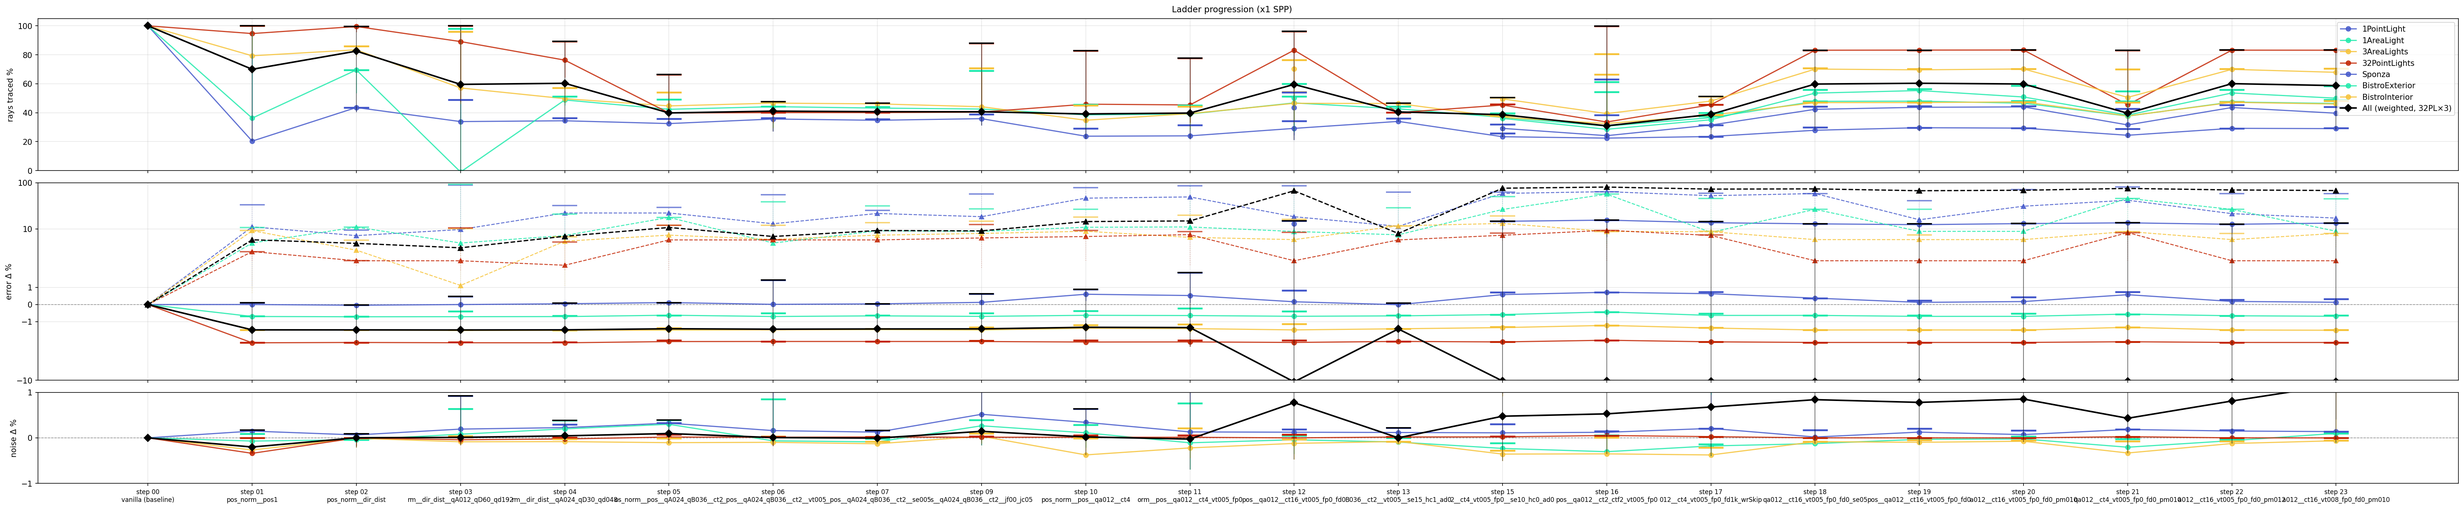
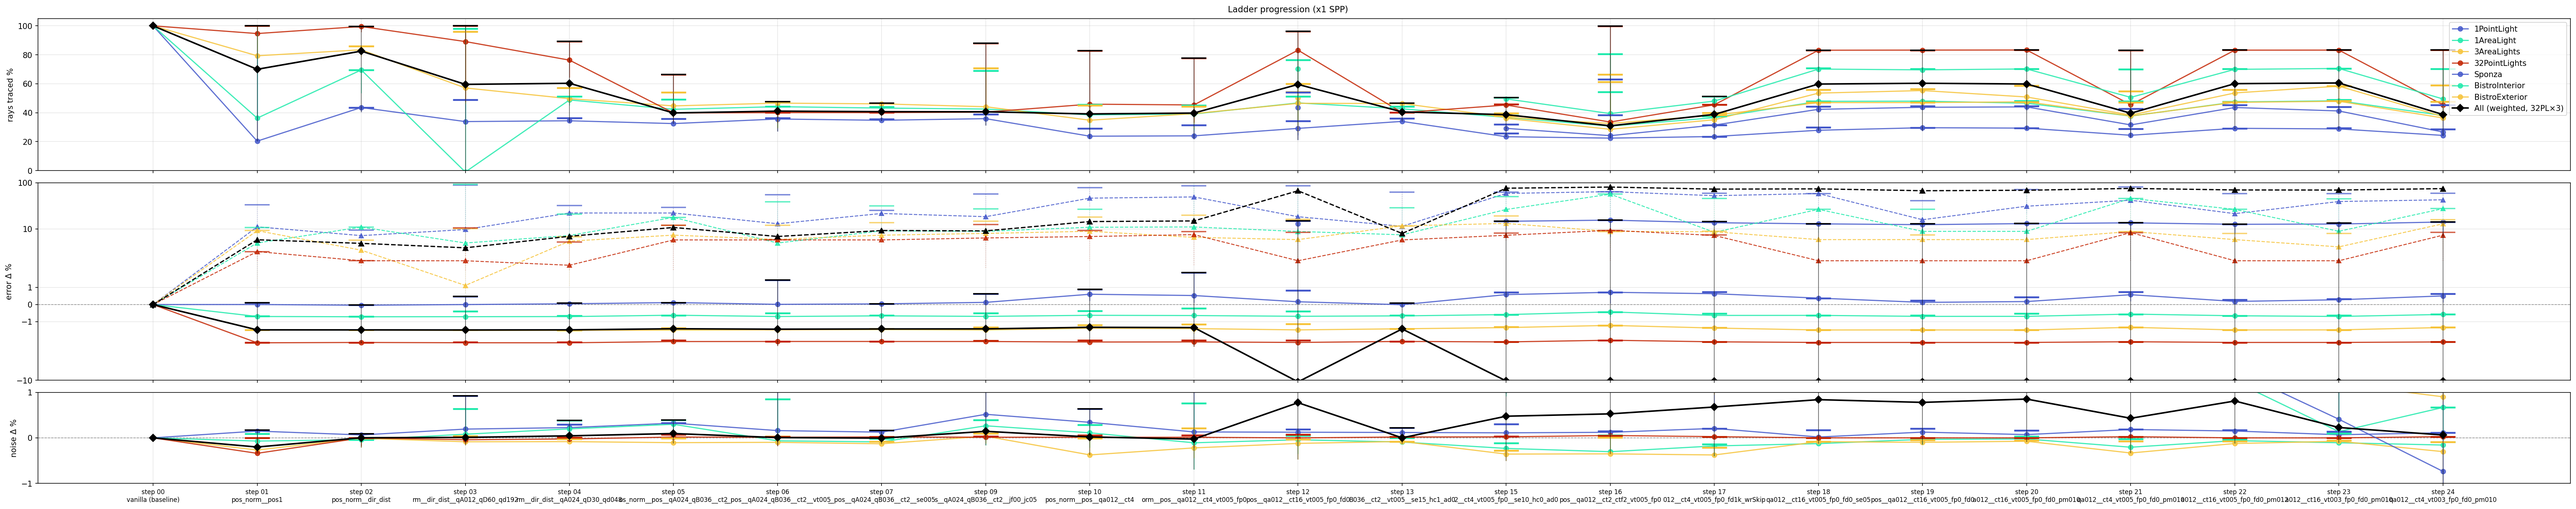
Step 24: ct x vt003 orthogonal, no universal carry unlock
Tested whether vt003 (step-23 Sponza defense) rescues ct=4's Sponza
regression (step 21 showed ct4+pm010 spikes Sponza x4 err to +7%).
If yes: ct4+vt003+pm010 = universal win (massive rays savings AND
Sponza quality).

Answer: no. Sponza err monotonic in ct under vt003:
- x4 w1: ct4 +3.85 > ct8 +3.03 > ct16 +1.42
- x4 w2: ct4 +4.54 > ct8 +4.40 > ct16 +0.89
- x16 w1: ct4 +13.98 > ct8 +11.79 > ct16 +8.26

ct and vt are orthogonal bias defenses — ct waits for enough samples
to stabilize cell means; vt distrusts ambiguous μ. They combine
additively, not substitutively. Rays savings on 32PL (ct4 halves to
45 vs 83 rays) stay gated behind Sponza's quality need.

No carry change. Step-23 qa012__ct16_vt003_fp0_fd0_pm010 remains the
universal carry. ct4+vt003 flagged as the Bistro-only / variance-
dominated specialized config.

diff --git a/scripts/VisCache_Ladder24.py b/scripts/VisCache_Ladder24.py
@@ -1,0 +1,105 @@
+"""
+VisCache_Ladder24.py — Step 24: ct × vt003 × pm010 re-test.
+
+Step 21 showed ct4+pm010 unlocks HUGE rays savings (32PL x4 halved,
+Bistro -20pp) but costs Sponza x4 quality (err +2.34 → +6.99, 3×
+worse). Step 23 showed vt003+pm010 ESSENTIALLY FIXES Sponza x4
+(err +2.85 → +0.17 at ct=16). Question: does vt003 rescue Sponza
+at ct=4 too?
+
+If yes: ct4+vt003+pm010 delivers Sponza parity AND Bistro rays savings
+AND 32PL rays savings — a universal win.
+
+Three variants: ct4_vt003_pm010, ct8_vt003_pm010, ct16_vt003_pm010.
+3 × 6 × 7 = 126 runs.
+
+Usage:
+    runtime/pythondist/python.exe scripts/run_ladder.py -s 24
+"""
+import os, sys
+sys.path.insert(0, os.path.dirname(os.path.abspath(__file__)))
+from VisCache_LadderCommon import run_variants, run_baseline, get_scenes, \
+    finalize_step, make_norm_variants, read_carried_winner, parse_variant_tags, \
+    write_picks_meta, _DEFAULT_PICKER_RULE, ALL_SCENES, \
+    PRESET_MINIMAL, RR_ADAPTIVE, LEVELS_MULTI, QUANT_SWEEP, SUBFRAME_2x2
+
+STEP = "24"
+res = int(os.environ.get("RES", "512"))
+
+INHERITED_NAME = read_carried_winner("23")
+if INHERITED_NAME is None:
+    raise RuntimeError("[24] step 23 picks.json missing — run step 23 first.")
+
+_qa_tag = None
+for tok in INHERITED_NAME.split("__"):
+    if tok.startswith("qa") and tok[2:].isdigit():
+        _qa_tag = tok
+        break
+if _qa_tag is None:
+    raise RuntimeError(f"[24] cannot parse qa tag from {INHERITED_NAME}")
+QUANT_WINNER = QUANT_SWEEP[_qa_tag]
+WINNER_NAME = f"pos_norm__pos__{_qa_tag}"
+
+NO_JITTER = {"jitterFilter": 0.0, "jitterCell": 0.0}
+
+BASE_24 = [v for v in make_norm_variants(quant=QUANT_WINNER,
+                                           base=PRESET_MINIMAL,
+                                           quant_tag=_qa_tag)
+           if v[0] == WINNER_NAME]
+
+CT_SWEEP = {"ct4": 4, "ct8": 8, "ct16": 16}
+
+VARIANTS_24 = []
+for (name, base_overrides) in BASE_24:
+    for ct_tag, ct_val in CT_SWEEP.items():
+        tag = f"{ct_tag}_vt003_fp0_fd0_pm010"
+        VARIANTS_24.append((f"{name}__{tag}", {
+            **base_overrides,
+            **NO_JITTER,
+            "bootThreshold":                 ct_val,
+            "matureThreshold":               128,
+            "varThreshold":                  0.03,
+            "bootThresholdFactorFootprintPx": 0.0,
+            "forceDescendFootprintPx":       0,
+            "stderrThreshold":               0.0,
+            "enableHierarchicalConsistency": False,
+            "accelDecayDisagreeThresh":      0.0,
+            "pMin":                          0.10,
+        }))
+
+STEP_OVERRIDES = {**RR_ADAPTIVE, **LEVELS_MULTI, **SUBFRAME_2x2,
+                  "tableCapacity": 1 << 25}
+
+for scene_file in get_scenes(default=list(ALL_SCENES)):
+    run_baseline(
+        step_name="00",
+        frame_configs=[(0, 0, 1)],
+        scene_file=scene_file,
+        resX=res, resY=res,
+        extra_spp=[4, 16],
+        mogwai_globals=globals(),
+    )
+
+    run_variants(
+        step_name=STEP,
+        frame_configs=[(1, 0, 1, 1),  (1, 0, 1, 4),  (1, 0, 1, 16),
+                       (2, 0, 1, 1),  (2, 0, 1, 4),  (2, 0, 1, 16)],
+        scene_file=scene_file,
+        variants=VARIANTS_24,
+        resX=res, resY=res,
+        mogwai_globals=globals(),
+        step_overrides=STEP_OVERRIDES,
+    )
+
+finalize_step(STEP, inherited_winners=[INHERITED_NAME],
+              ref_step="23", ref_variant=INHERITED_NAME,
+              ref_label="step-23 carry (ct16)")
+write_picks_meta(STEP, inherited_from="23", inherited=[INHERITED_NAME],
+                  carried={}, rule=_DEFAULT_PICKER_RULE,
+                  notes="ct × vt003 × pm010 cross-sweep. Step 21 showed ct4 "
+                        "saves 20-37pp rays but Sponza x4 err regressed +2.3 "
+                        "→ +7.0. Step 23 showed vt003 gives Sponza x4 "
+                        "parity (+0.17%). Does vt003 rescue Sponza at ct=4 "
+                        "so we can unlock the rays savings? Carry set "
+                        "post-inspection if ct4+vt003 delivers both.")
+_HEADLESS_SCRIPT_DONE = True

diff --git a/docs/devlog/DEVLOG.md b/docs/devlog/DEVLOG.md
@@ -548,6 +548,35 @@ v2 eliminated v1's catastrophic 1AL regression (blob 117 → 33 at fd=4096). `fd
 
 ---
 
+## Step 24 — ct × vt003 × pm010 cross-sweep — ct+vt are orthogonal bias defenses
+
+**What it looks at.** Step 21 found ct=4+pm010 unlocks massive rays savings (32PL halved, Bistro -20pp) but regresses Sponza x4 err (+2.3 → +7.0). Step 23 found vt003+pm010 achieves Sponza x4 err parity with vanilla (+0.17%). Direct question: does vt003 rescue Sponza at ct=4, giving us the universal win?
+
+Three variants: `ct4_vt003_pm010`, `ct8_vt003_pm010`, `ct16_vt003_pm010`. 3 × 6 × 7 = 126 runs.
+
+**Result — vt003 does NOT rescue Sponza at ct=4.**
+
+Sponza under vt003:
+
+| regime | ct4 err | ct8 err | ct16 err |
+|---|---:|---:|---:|
+| x4 w1 | +3.85 | +3.03 | **+1.42** |
+| x4 w2 | +4.54 | +4.40 | **+0.89** |
+| x16 w1 | +13.98 | +11.79 | **+8.26** |
+| x16 w2 | +12.95 | +11.51 | **+8.49** |
+
+Sponza err is **monotone in ct** — tighter vt didn't absolve ct. The scene-regime split (step 21) is robust: bias-dominated scenes need high ct AND tight vt. They fight bias through different mechanisms (ct = "wait for enough samples to stabilize cell mean", vt = "distrust cells with ambiguous μ") and combine additively, not substitutively.
+
+Meanwhile 32PL rays scale exactly as expected: ct4 halves rays (x1 83→45, x4 40→17) with ~0.15% err cost. The rays prize on variance-dominated scenes stays gated behind Sponza's quality need.
+
+**Why we narrow.** No carry change. Step-23 `qa012__ct16_vt003_fp0_fd0_pm010` remains. ct4+vt003 would be the right carry *if* Sponza were out of scope. For a universal carry, ct=16 is the required trade.
+
+Details in `captures/ladder/24/picks.json`.
+
+![](step24/overview_summary_24.png)
+
+---
+
 ## Step 23 — varThreshold × pm010 — **positive carry: vt003**
 
 **What it looks at.** `varThreshold` has been pinned at 0.05 since step 6. It was tuned under the old pMin=0.05 floor. Now that step-20's pm010 provides rate-defense independent of vt, the trade-off landscape should have shifted. Sweep vt ∈ {0.03, 0.05, 0.08} at step-20 carry. 3 × 6 × 7 = 126 runs.
